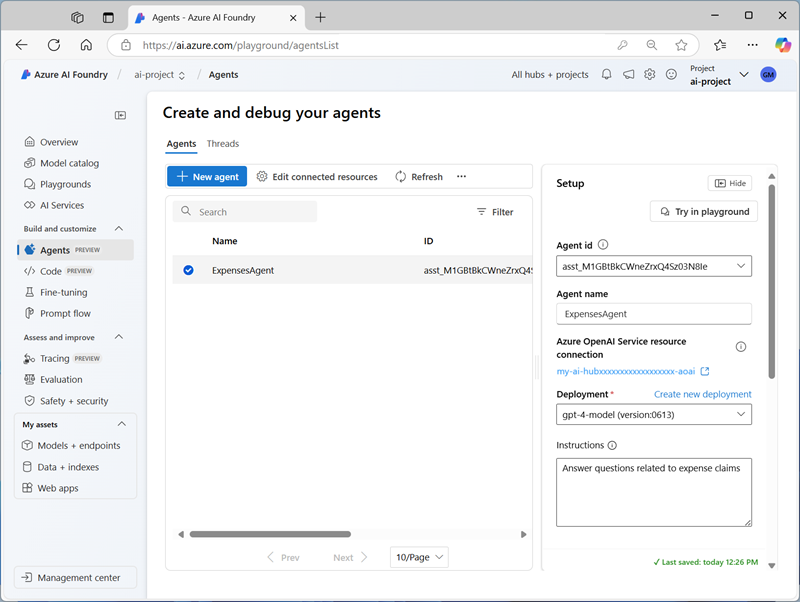
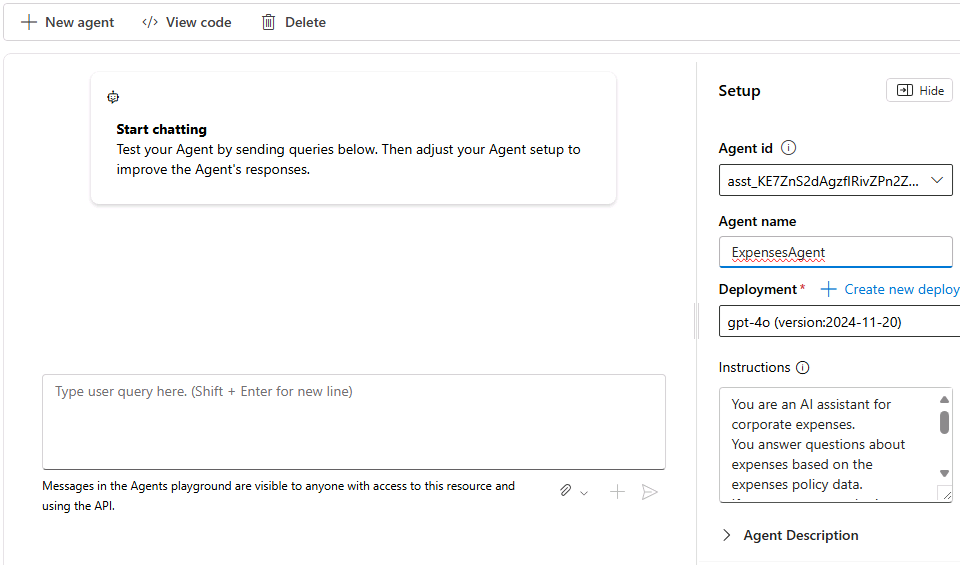
update lab1 to new UI

diff --git a/Instructions/01-agent-fundamentals.md b/Instructions/01-agent-fundamentals.md
@@ -12,7 +12,7 @@ This exercise takes approximately **30** minutes.
 
 > **Note**: Some of the technologies used in this exercise are in preview or in active development. You may experience some unexpected behavior, warnings, or errors.
 
-## Create an Azure AI Foundry project
+## Create an Azure AI Foundry project and agent
 
 Let's start by creating an Azure AI Foundry project.
 
@@ -20,59 +20,32 @@ Let's start by creating an Azure AI Foundry project.
 
     ![Screenshot of Azure AI Foundry portal.](./Media/ai-foundry-home.png)
 
-1. In the home page, select **+ Create project**.
-1. In the **Create a project** wizard, enter a valid name for your project and if an existing hub is suggested, choose the option to create a new one. Then review the Azure resources that will be automatically created to support your hub and project.
-1. Select **Customize** and specify the following settings for your hub:
-    - **Hub name**: *A valid name for your hub*
+1. In the home page, select **Create an agent**.
+1. When prompted to create a project, enter a valid name for your project.
+1. Expand **Advanced options** and specify the following settings for your hub:
+    - **Azure AI Foundry resource**: *A valid name for your Azure AI Foundry resource*
     - **Subscription**: *Your Azure subscription*
-    - **Resource group**: *Create or select a resource group*
-    - **Location**: Select a region from the following:\*
-        - eastus
-        - eastus2
-        - swedencentral
-        - westus
-        - westus3
-    - **Connect Azure AI Services or Azure OpenAI**: *Create a new AI Services resource*
-    - **Connect Azure AI Search**: Skip connecting
+    - **Resource group**: *Select your resource group, or create a new one*
+    - **Region**: *Select any **AI Services supported location***\*
 
-    > \* At the time of writing, these regions support the gpt-4o model for use in agents. Model availability is constrained by regional quotas. In the event of a quota limit being reached later in the exercise, there's a possibility you may need to create another project in a different region.
+    > \* Some Azure AI resources are constrained by regional model quotas. In the event of a quota limit being exceeded later in the exercise, there's a possibility you may need to create another resource in a different region.
 
-1. Select **Next** and review your configuration. Then select **Create** and wait for the process to complete.
-1. When your project is created, close any tips that are displayed and review the project page in Azure AI Foundry portal, which should look similar to the following image:
+1. Select **Create** and wait for your project to be created.
+1. When your project is created, the Agents playground will be opened automatically so you can select or deploy a model:
 
-    ![Screenshot of a Azure AI project details in Azure AI Foundry portal.](./Media/ai-foundry-project.png)
+    ![Screenshot of a Azure AI Foundry project Agents playground.](./Media/ai-foundry-agents-playground.png)
 
-## Deploy a generative AI model
+    >**Note**: A GPT-4o base model is automatically deployed when creating your Agent and project.
 
-Now you're ready to deploy a generative AI language model to support your agent.
+You'll see that an agent with a default name has been created for you, along with your base model deployment.
 
-1. In the pane on the left for your project, in the **My assets** section, select the **Models + endpoints** page.
-1. In the **Models + endpoints** page, in the **Model deployments** tab, in the **+ Deploy model** menu, select **Deploy base model**.
-1. Search for the **gpt-4o** model in the list, and then select and confirm it.
-1. Deploy the model with the following settings by selecting **Customize** in the deployment details:
-    - **Deployment name**: *A valid name for your model deployment*
-    - **Deployment type**: Global Standard
-    - **Automatic version update**: Enabled
-    - **Model version**: *Select the most recent available version*
-    - **Connected AI resource**: *Select your Azure OpenAI resource connection*
-    - **Tokens per Minute Rate Limit (thousands)**: 50K *(or the maximum available in your subscription if less than 50K)*
-    - **Content filter**: DefaultV2
-
-    > **Note**: Reducing the TPM helps avoid over-using the quota available in the subscription you are using. 50,000 TPM should be sufficient for the data used in this exercise. If your available quota is lower than this, you will be able to complete the exercise but you may need to wait and resubmit prompts if the rate limit is exceeded.
-
-1. Wait for the deployment to complete.
-
-## Create an AI agent
+## Create your agent
 
 Now that you have a model deployed, you're ready to build an AI agent. In this exercise, you'll build a simple agent that answers questions based on a corporate expenses policy. You'll download the expenses policy document, and use it as *grounding* data for the agent.
 
 1. Open another browser tab, and download [Expenses_policy.docx](https://raw.githubusercontent.com/MicrosoftLearning/mslearn-ai-agents/main/Labfiles/01-agent-fundamentals/Expenses_Policy.docx) from `https://raw.githubusercontent.com/MicrosoftLearning/mslearn-ai-agents/main/Labfiles/01-agent-fundamentals/Expenses_Policy.docx` and save it locally. This document contains details of the expenses policy for the fictional Contoso corporation.
-1. Return to the browser tab containing the Azure AI Foundry portal, and in the navigation pane on the left, in the **Build and customize** section, select the **Agents** page.
-1. If prompted, select your Azure OpenAI service resource and go.
-
-    A new agent with a name like *Agent123* should be created automatically (if not, use the **+ New agent** button to create one).
-
-1. Select your new agent. Then, in the **Setup** pane for your new agent, set the **Agent name** to `ExpensesAgent`, ensure that the gpt-4o model deployment you created previously is selected, and set the **Instructions** to:
+1. Return to the browser tab containing the Foundry Agents playground, and find the **Setup** pane (it may be to the side or below the chat window).
+1. Set the **Agent name** to `ExpensesAgent`, ensure that the gpt-4o model deployment you created previously is selected, and set the **Instructions** to:
 
     ```prompt
    You are an AI assistant for corporate expenses.
@@ -84,23 +57,18 @@ Now that you have a model deployed, you're ready to build an AI agent. In this e
 
 1. Further down in the **Setup** pane, next to the **Knowledge** header, select **+ Add**. Then in the **Add knowledge** dialog box, select **Files**.
 1. In the **Adding files** dialog box, create a new vector store named `Expenses_Vector_Store`, uploading and saving the **Expenses_policy.docx** local file that you downloaded previously.
-
-    ![Screenshot of the Adding files dialog box in Azure AI Foundry portal.](./Media/ai-agent-add-files.png)
-
 1. In the **Setup** pane, in the **Knowledge** section, verify that **Expenses_Vector_Store** is listed and shown as containing 1 file.
-
 1. Below the **Knowledge** section, next to **Actions**, select **+ Add**. Then in the **Add action** dialog box, select **Code interpreter** and then select **Save** (you do not need to upload any files for the code interpreter).
 
     Your agent will use the document you uploaded as its knowledge source to *ground* its responses (in other words, it will answer questions based on the contents of this document). It will use the code interpreter tool as required to perform actions by generating and running its own Python code.
 
 ## Test your agent
 
-Now that you've created an agent, you can test it in the Azure AI Foundry portal playground.
+Now that you've created an agent, you can test it in the playground chat.
 
-1. At the top of the **Setup** pane for your agent, select **Try in playground**.
-1. In the playground, enter the prompt: `What's the maximum I can claim for meals?` and review the agent's response - which should be based on information in the expenses policy document you added as knowledge to the agent setup.
+1. In the playground chat entry, enter the prompt: `What's the maximum I can claim for meals?` and review the agent's response - which should be based on information in the expenses policy document you added as knowledge to the agent setup.
 
-    > **Note**: If the agent fails to respond because the rate limit is exceeded. Wait a few seconds and try again. If there is insufficient quota available in your subscription, the model may not be able to respond.
+    > **Note**: If the agent fails to respond because the rate limit is exceeded. Wait a few seconds and try again. If there is insufficient quota available in your subscription, the model may not be able to respond. If the problem persists, try to increase the quota for your model on the **Models + endpoints** page.
 
 1. Try the following follow-up prompt: `I'd like to submit a claim for a meal.` and review the response. The agent should ask you for the required information to submit a claim.
 1. Provide the agent with an email address; for example, `fred@contoso.com`. The agent should acknowledge the response and request the remaining information required for the expense claim (description and amount)
